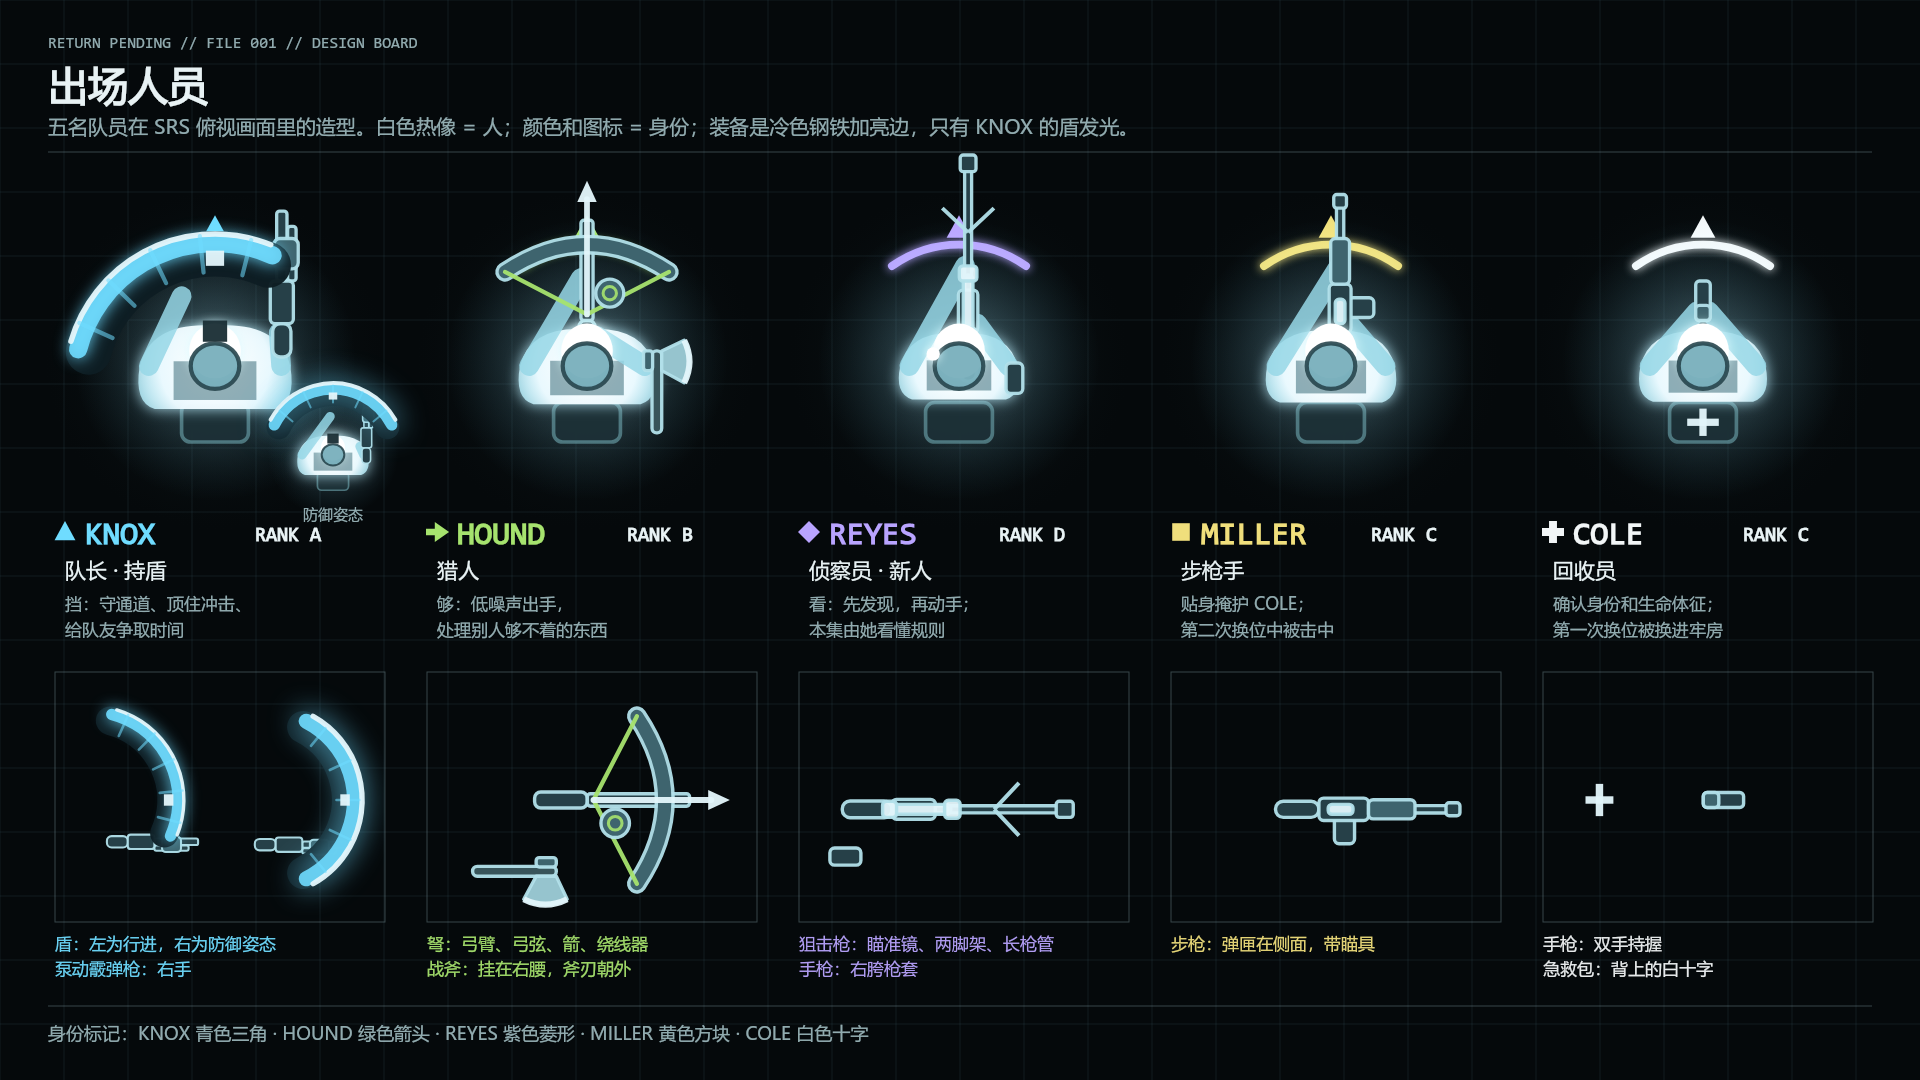
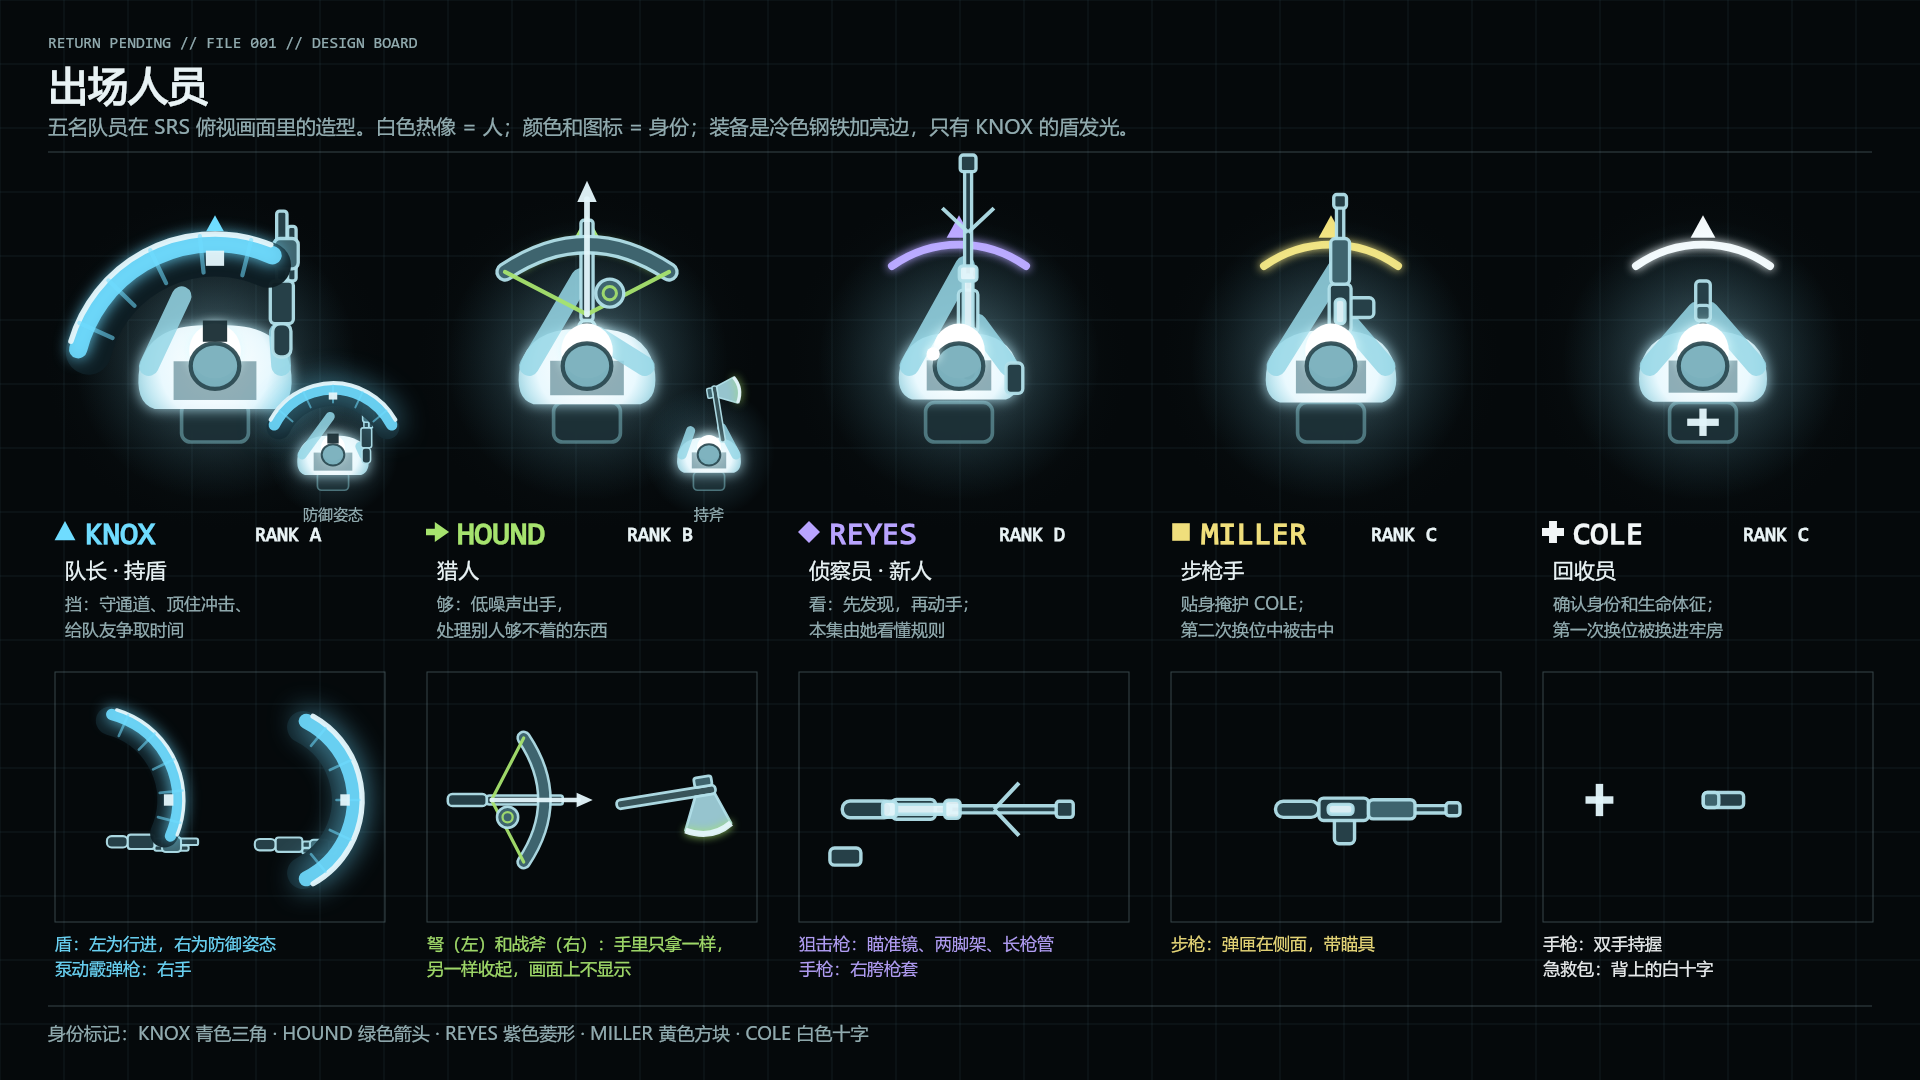
HOUND shows one weapon at a time: crossbow by default, tomahawk in hand for melee

Changed region(s): [[0.2188, 0.6417, 0.4062, 0.9167], [0.3125, 0.3056, 0.4062, 0.4889]]

diff --git a/renderer/src/thermal.ts b/renderer/src/thermal.ts
@@ -58,7 +58,8 @@ function part(ctx: SKRSContext2D, x: number, y: number, w: number, h: number, r 
   ctx.beginPath(); ctx.roundRect(x, y, w, h, r); ctx.fillStyle = fill; ctx.fill(); ctx.strokeStyle = EDGE; ctx.lineWidth = 1.1; ctx.stroke();
 }
 // facing +x, in the operator's own space (shoulders at y = +-21). Also used alone on the design boards.
-// guard (0..1, shield only): 0 = carried on the left arm, 1 = squared up to the front and pushed forward
+// guard (0..1): shield 0 = carried on the left arm, 1 = squared up and pushed forward;
+// crossbow kit 0 = crossbow in hand, 1 = tomahawk in hand. Only one of the two is ever shown.
 export function drawKit(ctx: SKRSContext2D, kit: string, idc: string, guard = 0) {
   ctx.save(); ctx.lineJoin = "round"; ctx.lineCap = "butt";
   if (kit === "shield") {
@@ -83,12 +84,17 @@ export function drawKit(ctx: SKRSContext2D, kit: string, idc: string, guard = 0)
     for (let k = 0; k < 5; k++) { const an = A0 + (A1 - A0) * (k + 0.5) / 5; ctx.beginPath(); ctx.moveTo(sx + Math.cos(an) * (R - 6), Math.sin(an) * (R - 6)); ctx.lineTo(sx + Math.cos(an) * (R + 6), Math.sin(an) * (R + 6)); ctx.stroke(); }
     ctx.fillStyle = BRIGHT; ctx.fillRect(sx + R - 4, -3, 5, 6);                     // view port
   } else if (kit === "crossbow") {
-    // tomahawk on the belt at the right hip: handle along the body, head forward, blade turned outward
-    part(ctx, -24, 21.4, 27, 3.2, 1.5, "rgba(56,84,90,1)");                          // handle
-    part(ctx, -3.5, 18.6, 6.5, 3, 1, STEEL2);                                          // poll, inboard
-    ctx.beginPath(); ctx.moveTo(-3.5, 24.6); ctx.lineTo(3, 24.6); ctx.lineTo(6.5, 32); ctx.quadraticCurveTo(-0.5, 35.5, -7.5, 32); ctx.closePath();
-    ctx.fillStyle = "rgba(150,196,206,1)"; ctx.fill(); ctx.strokeStyle = EDGE; ctx.lineWidth = 1.1; ctx.stroke();
-    ctx.strokeStyle = BRIGHT; ctx.lineWidth = 2; ctx.beginPath(); ctx.moveTo(6.5, 32); ctx.quadraticCurveTo(-0.5, 35.5, -7.5, 32); ctx.stroke();
+    if (guard >= 0.5) {
+      // tomahawk in the right hand, carried forward ready to strike: handle, poll, bearded blade with a bright edge
+      ctx.save(); ctx.translate(13, 9); ctx.rotate(-0.16);
+      part(ctx, -6, -1.8, 40, 3.6, 1.6, "rgba(56,84,90,1)");                         // handle
+      part(ctx, 26, -5.6, 7, 3.8, 1, STEEL2);                                          // poll
+      ctx.beginPath(); ctx.moveTo(25.5, 1.8); ctx.lineTo(33.5, 1.8); ctx.lineTo(38, 14.5); ctx.quadraticCurveTo(29, 20, 19.5, 14.5); ctx.closePath();
+      ctx.fillStyle = "rgba(150,196,206,1)"; ctx.fill(); ctx.strokeStyle = EDGE; ctx.lineWidth = 1.1; ctx.stroke();
+      ctx.strokeStyle = BRIGHT; ctx.lineWidth = 2.4; ctx.shadowColor = idc; ctx.shadowBlur = 8;
+      ctx.beginPath(); ctx.moveTo(38, 14.5); ctx.quadraticCurveTo(29, 20, 19.5, 14.5); ctx.stroke(); ctx.shadowBlur = 0;
+      ctx.restore();
+    } else {
     // crossbow: stock, rail, recurve limbs, drawn string, a bolt on the rail, a line reel under it
     part(ctx, -4, -2.6, 17, 5.2, 2);
     part(ctx, 13, -2, 33, 4, 1);
@@ -100,6 +106,7 @@ export function drawKit(ctx: SKRSContext2D, kit: string, idc: string, guard = 0)
     ctx.fillStyle = BRIGHT; ctx.beginPath(); ctx.moveTo(59, 0); ctx.lineTo(52, -3.2); ctx.lineTo(52, 3.2); ctx.closePath(); ctx.fill();
     ctx.beginPath(); ctx.arc(22, 7.5, 4.6, 0, TAU); ctx.fillStyle = STEEL2; ctx.fill(); ctx.strokeStyle = EDGE; ctx.lineWidth = 1.1; ctx.stroke();
     ctx.strokeStyle = rgba(idc, 0.9); ctx.lineWidth = 1; ctx.beginPath(); ctx.arc(22, 7.5, 2.2, 0, TAU); ctx.stroke();
+    }
   } else if (kit === "recon") {
     const y = 3;                                            // long bolt-action rifle with a scope and a bipod
     part(ctx, 22, y - 1.15, 41, 2.3, 1);                    // barrel
@@ -195,7 +202,8 @@ export function drawOperatorThermal(ctx: SKRSContext2D, u: ThermalUnit, spec: Op
   const idc = spec.color ?? "#aae6f0";
   const GRIP: Record<string, number[]> = { shield: [21, -11, 9, 21], crossbow: [27, -2, 8, 3], medic: [16, -2, 16, 2], recon: [31, 2, 12, 6], rifle: [30, 2, 12, 6] };
   const gd = u.guard ?? 0;
-  const gr = spec.kit === "shield" ? [21 + 4 * gd, -11 + 9 * gd, 9 - 5 * gd, 21 - 2 * gd] : GRIP[spec.kit] ?? GRIP.rifle;
+  const gr = spec.kit === "shield" ? [21 + 4 * gd, -11 + 9 * gd, 9 - 5 * gd, 21 - 2 * gd]
+    : spec.kit === "crossbow" && gd >= 0.5 ? [15, -13, 17, 9] : GRIP[spec.kit] ?? GRIP.rifle;
   ctx.strokeStyle = WARM; ctx.lineWidth = 6.5; ctx.lineCap = "round";
   ctx.beginPath(); ctx.moveTo(-2, -shW + 3); ctx.lineTo(gr[0], gr[1]); ctx.moveTo(-2, shW - 3); ctx.lineTo(gr[2], gr[3]); ctx.stroke();
   drawKit(ctx, spec.kit, idc, gd);

diff --git a/renderer/src/board.ts b/renderer/src/board.ts
@@ -56,7 +56,7 @@ const CAST: Record<string, { rank: string; role: string; gear: string; job: stri
 // ---------------- board: cast ----------------
 const KIT: Record<string, string[]> = {
   KNOX: ["盾：左为行进，右为防御姿态", "泵动霰弹枪：右手"],
-  HOUND: ["弩：弓臂、弓弦、箭、绕线器", "战斧：挂在右腰，斧刃朝外"],
+  HOUND: ["弩（左）和战斧（右）：手里只拿一样，", "另一样收起，画面上不显示"],
   REYES: ["狙击枪：瞄准镜、两脚架、长枪管", "手枪：右胯枪套"],
   MILLER: ["步枪：弹匣在侧面，带瞄具"],
   COLE: ["手枪：双手持握", "急救包：背上的白十字"],
@@ -68,6 +68,7 @@ function cast() {
     floorDisc(ctx, cx, cy, 170);
     mag(ctx, cx, cy, 2.25, () => { const u = { id: r.id, x: 0, y: 0, heading: -90, gait: { phase: 0, moving: 0 } }; drawIdentityArc(ctx, u, r, 1); drawOperatorThermal(ctx, u, r, 1.2, 1); });
     if (r.kit === "shield") { mag(ctx, cx + 118, cy + 92, 1.05, () => { const u = { id: r.id, x: 0, y: 0, heading: -90, guard: 1 }; drawOperatorThermal(ctx, u, r, 1.2, 1); }); text(ctx, ["防御姿态"], cx + 118, cy + 160, 15, DIMC, 1.5, true); }
+    if (r.kit === "crossbow") { mag(ctx, cx + 122, cy + 92, 1.05, () => { const u = { id: r.id, x: 0, y: 0, heading: -90, guard: 1 }; drawOperatorThermal(ctx, u, r, 1.2, 1); }); text(ctx, ["持斧"], cx + 122, cy + 160, 15, DIMC, 1.5, true); }
     drawIcon(ctx, r.icon, cx - 150, 532, 11, r.color);
     ctx.font = `bold 32px ${EN}`; ctx.fillStyle = r.color; ctx.fillText(r.callsign, cx - 130, 544);
     ctx.font = `bold 20px ${EN}`; ctx.fillStyle = INK; ctx.fillText(`RANK ${c.rank}`, cx + 40, 541);
@@ -78,6 +79,8 @@ function cast() {
     ctx.save(); ctx.beginPath(); ctx.rect(cx - 160, 672, 330, 250); ctx.clip();
     if (r.kit === "shield") {
       mag(ctx, cx - 110, 800, 1.9, () => drawKit(ctx, r.kit, r.color, 0)); mag(ctx, cx + 55, 800, 1.9, () => drawKit(ctx, r.kit, r.color, 1));
+    } else if (r.kit === "crossbow") {
+      mag(ctx, cx - 130, 800, 2.3, () => drawKit(ctx, r.kit, r.color, 0)); mag(ctx, cx + 12, 780, 2.5, () => drawKit(ctx, r.kit, r.color, 1));
     } else mag(ctx, cx - (r.kit === "recon" ? 95 : 40), 800, 3.1, () => drawKit(ctx, r.kit, r.color));
     ctx.restore();
     text(ctx, KIT[r.callsign], cx - 160, 950, 17, rgba(r.color, 0.95), 1.45);
